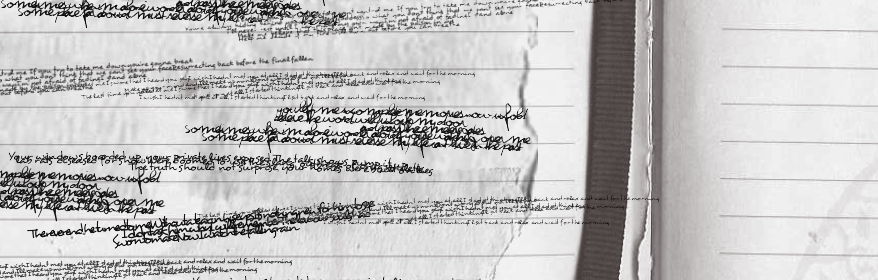
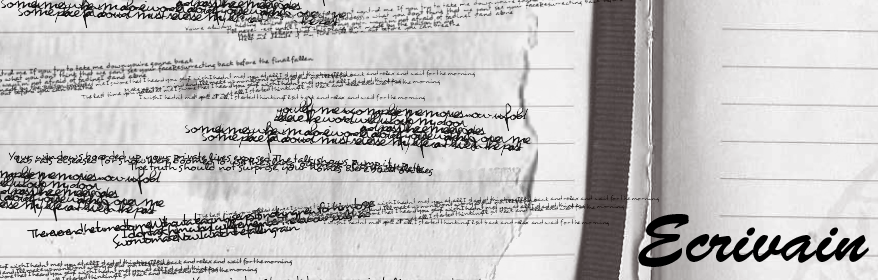
img category with title

Changed region(s): [[0.7073, 0.7429, 1.0, 0.9714]]

diff --git a/template/framework.php b/template/framework.php
@@ -8,7 +8,9 @@ function categories() {
         array("id" => 4, "img" => "img/Decorateur.png"),
         array("id" => 5, "img" => "img/Ecrivain.png"),
         array("id" => 6, "img" => "img/Photo.png"),
-        array("id" => 7, "img" => "img/Sportif.png")
+        array("id" => 7, "img" => "img/Sportif.png"),
+        array("id" => 8, "img" => "img/Peintre.png"),
+        array("id" => 9, "img" => "img/Musique.png")
     );
     echo "<ul id=\"cataglogue_list\">
             <li id=\"catalogue_recherche\">recherche catalogue</li>
